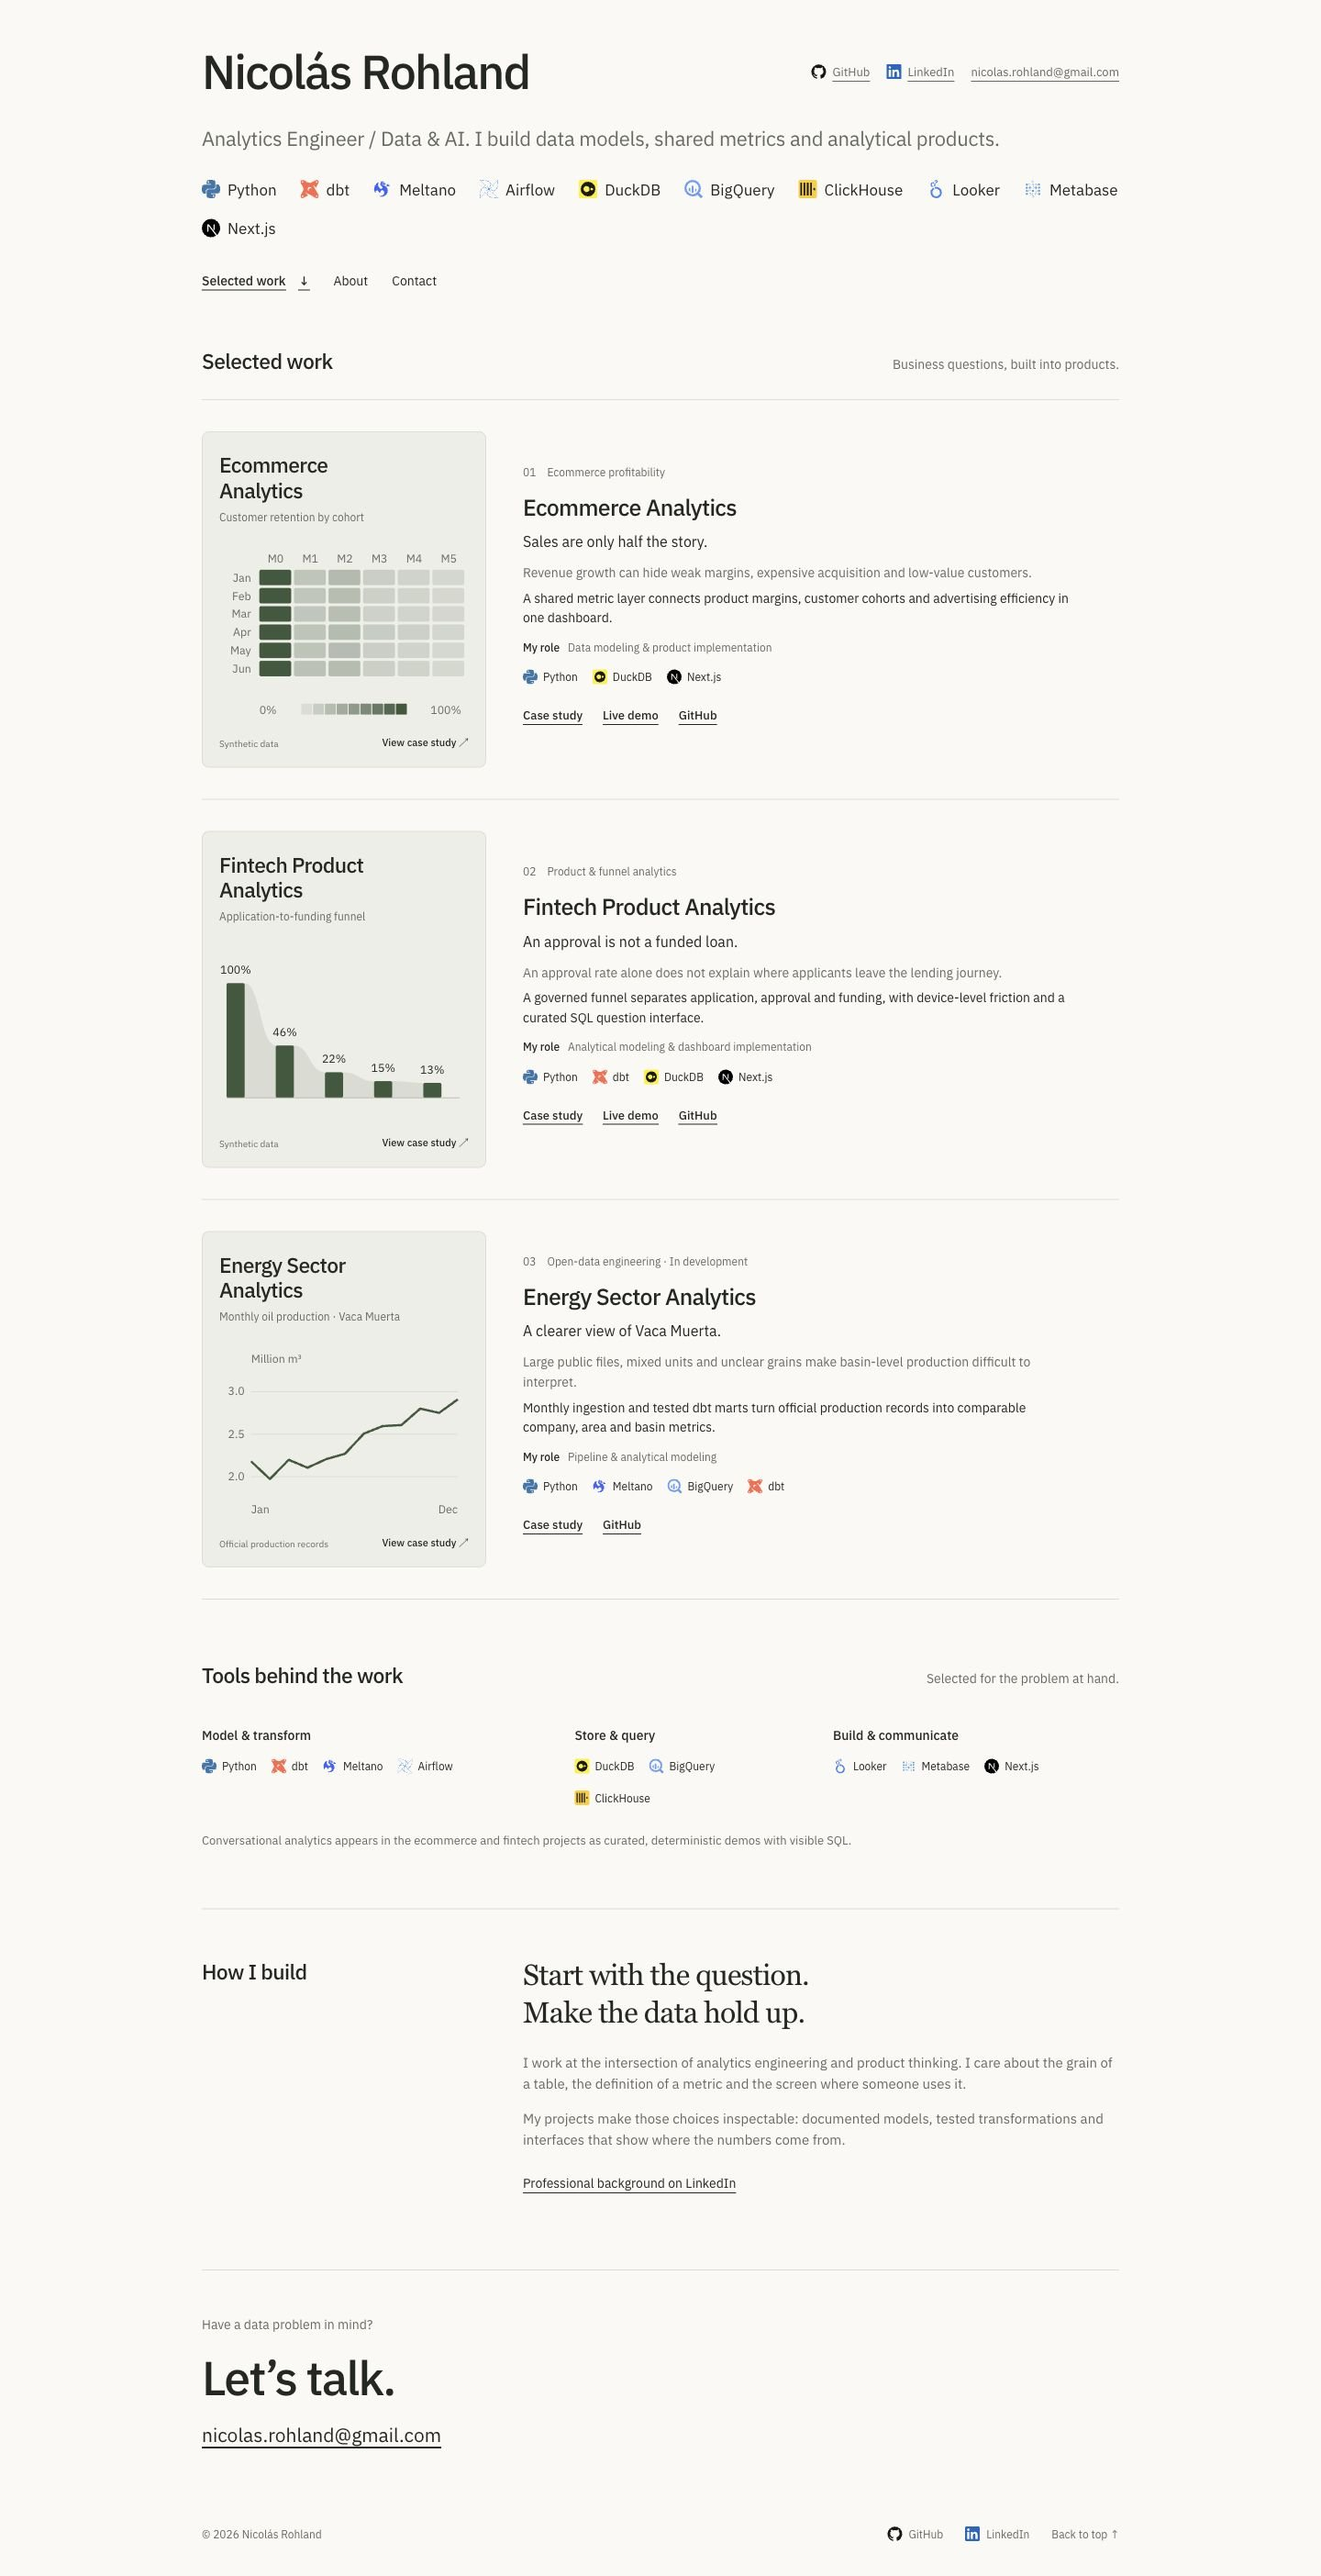
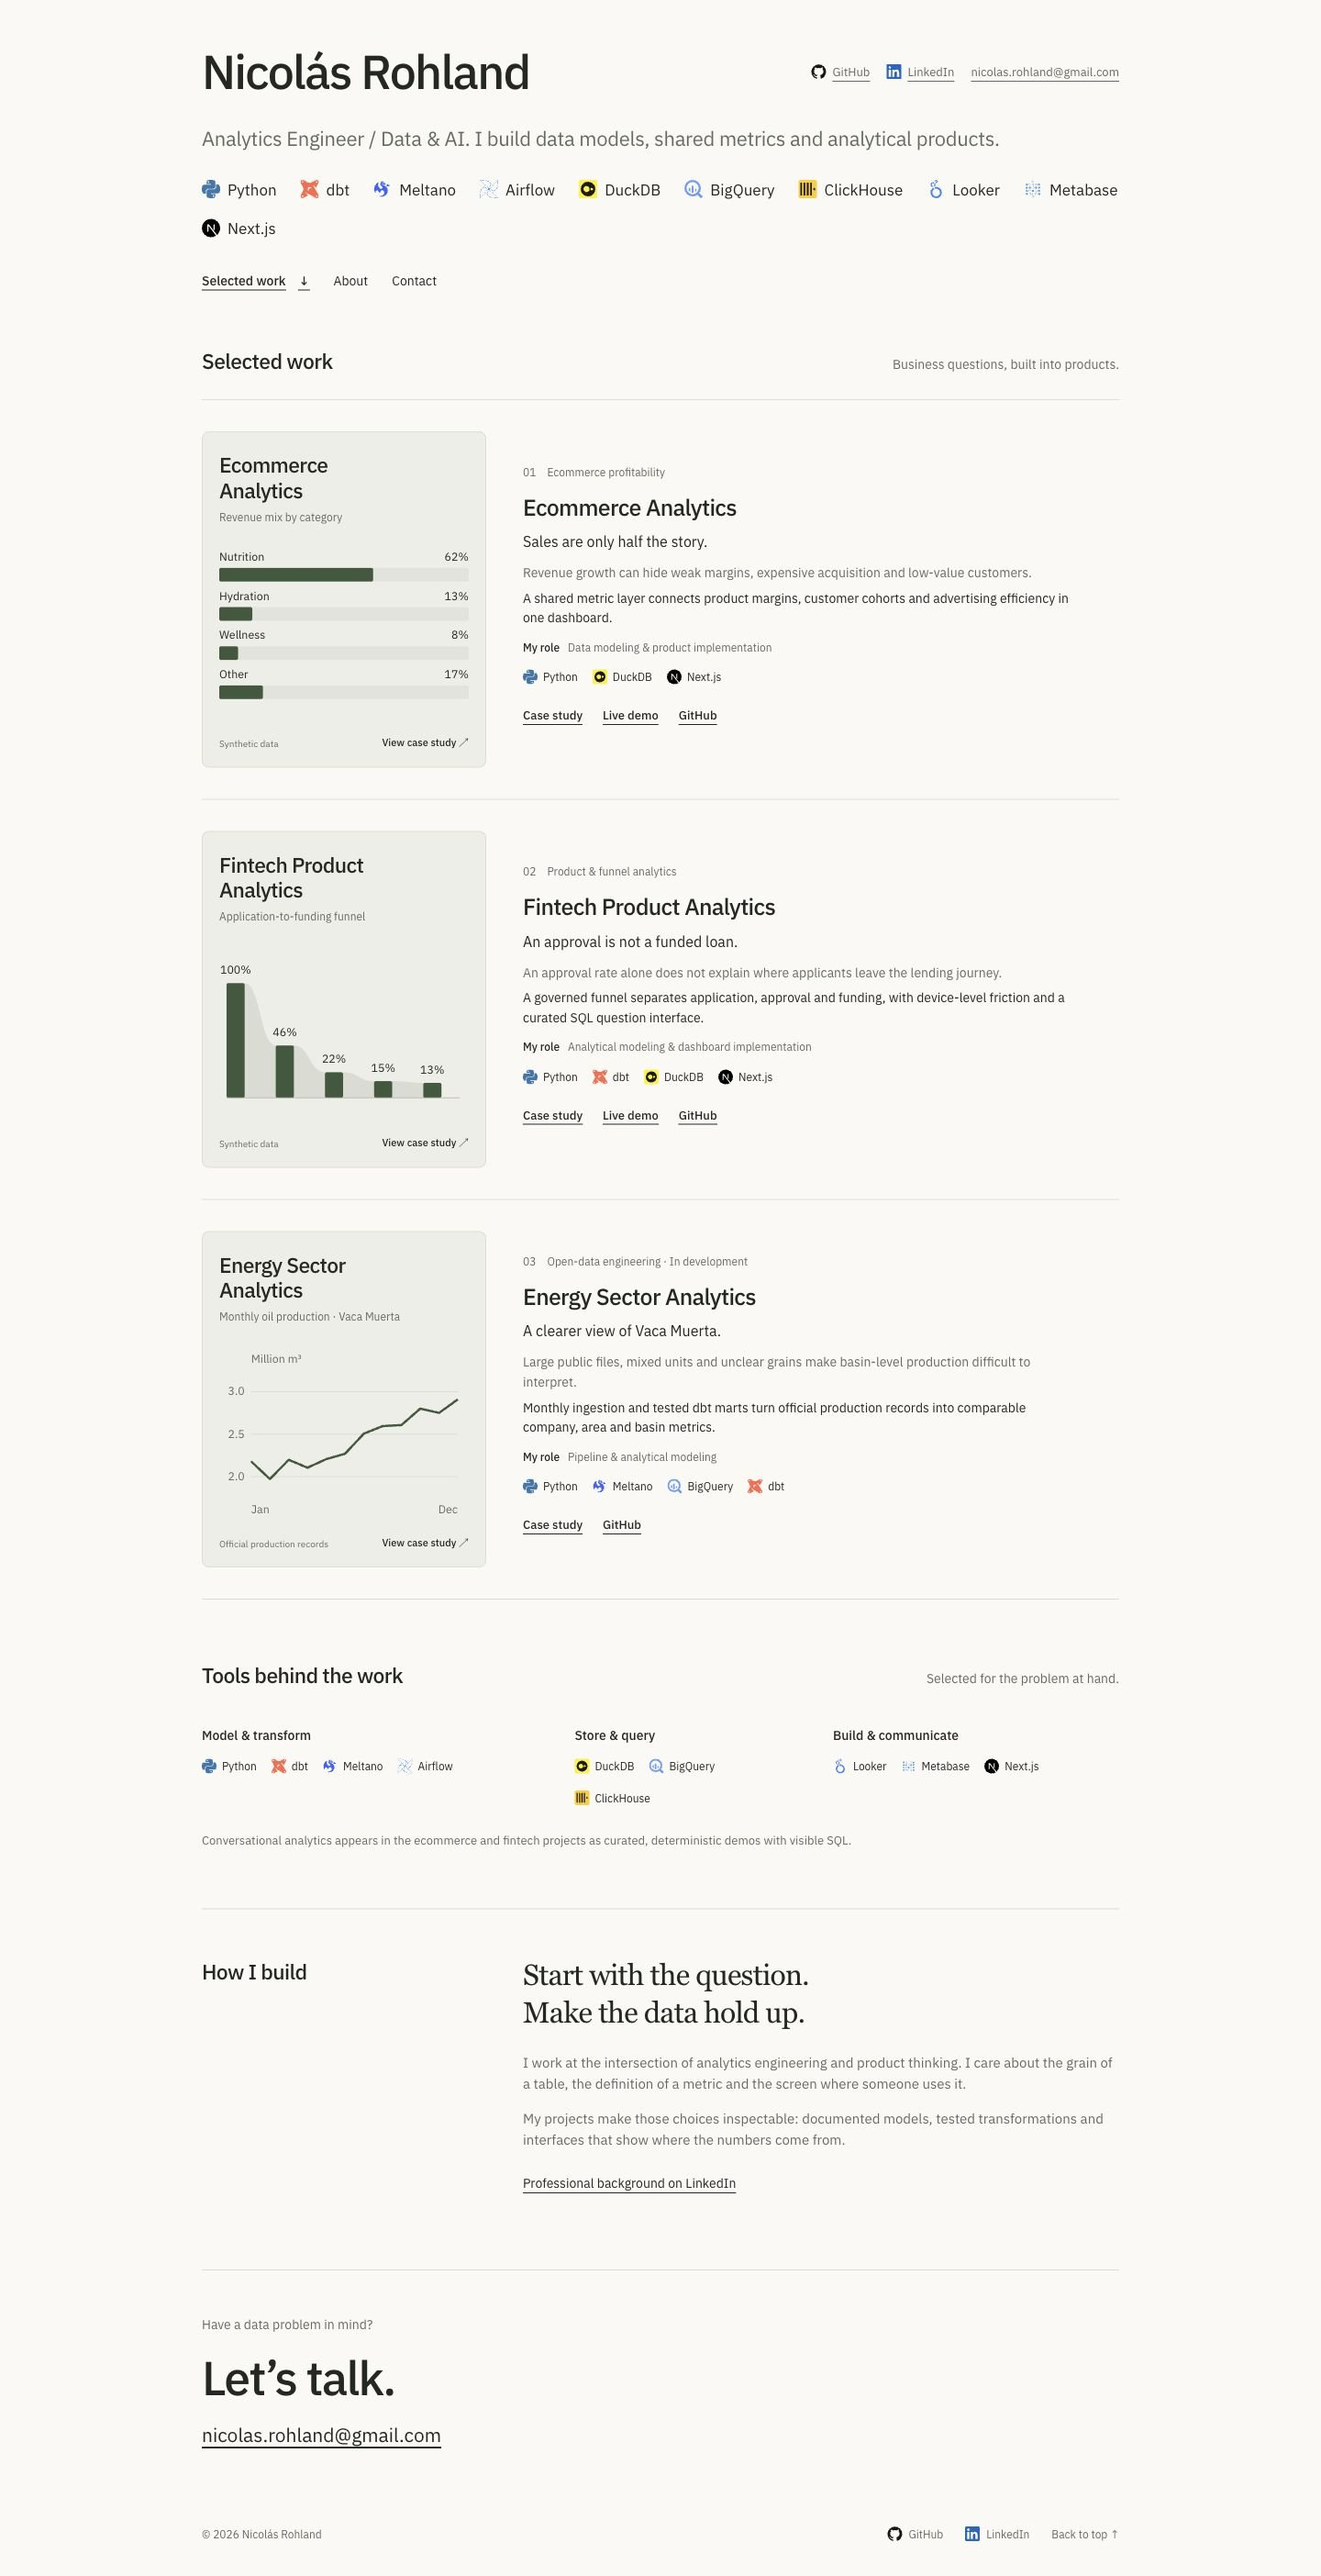
Use revenue composition in ecommerce project cover

Changed region(s): [[0.1562, 0.217, 0.3438, 0.2789]]

diff --git a/src/components/project-cover.tsx b/src/components/project-cover.tsx
@@ -1,5 +1,5 @@
 import type { Project } from "@/data/site";
-import { applicationStages, monthlyOil, retentionCohorts } from "@/data/cover-charts";
+import { applicationStages, monthlyOil, categoryRevenue } from "@/data/cover-charts";
 
 export function BasinChart() {
   const points = monthlyOil.map((value, index) => `${28 + index * 26},${135 - (value - 1900000) / 1000000 * 95}`).join(" ");
@@ -11,16 +11,25 @@ export function BasinChart() {
   </svg>;
 }
 
-function RetentionChart() {
-  return <svg className="cover-chart" viewBox="0 0 274 190" role="img" aria-label="Customer retention by cohort. January through June 2024 cohorts, months zero through five. All start at 100%; roughly 14–16% return in month five. From the project's synthetic dataset.">
-    {Array.from({length:6}, (_, index) => <text key={index} x={62 + index * 38} y="14" textAnchor="middle" className="secondary">M{index}</text>)}
-    {retentionCohorts.map((cohort, row) => <g key={row}>
-      <text x="35" y={35 + row * 20} textAnchor="end" className="secondary">{["Jan", "Feb", "Mar", "Apr", "May", "Jun"][row]}</text>
-      {cohort.map((value, column) => <rect key={column} x={44 + column * 38} y={22 + row * 20} width="35" height="17" rx="2" fill="currentColor" opacity={value}><title>{`${Math.round(value * 100)}% retained`}</title></rect>)}
-    </g>)}
-    <text x="44" y="180" className="secondary">0%</text>
-    {Array.from({length:10}, (_, index) => <rect key={index} x={77 + index * 13} y="169" width="12" height="12" rx="1" fill="currentColor" opacity={index / 9} />)}
-    <text x="266" y="180" textAnchor="end" className="secondary">100%</text>
+function RevenueMixChart() {
+  const total = categoryRevenue.reduce((sum, item) => sum + item.revenue, 0);
+  const shares = categoryRevenue.map(item => item.revenue / total * 100);
+  const percentages = shares.map(Math.floor);
+  // Largest-remainder rounding keeps the displayed composition at 100%.
+  shares.map((share, index) => ({index, remainder: share % 1}))
+    .sort((a, b) => b.remainder - a.remainder)
+    .slice(0, 100 - percentages.reduce((sum, value) => sum + value, 0))
+    .forEach(({index}) => { percentages[index] += 1; });
+  return <svg className="cover-chart" viewBox="0 0 274 190" role="img" aria-label="Share of product gross revenue by category: Nutrition approximately 62%, Hydration 13%, Wellness 8%, and other categories 17%. Other combines Vitamins, Energy and Accessories. From the project's synthetic dataset.">
+    {categoryRevenue.map(({category, revenue}, index) => {
+      const y = 10 + index * 43, share = revenue / total;
+      return <g key={category}>
+        <text x="0" y={y + 2}>{category}</text>
+        <text x="274" y={y + 2} textAnchor="end">{percentages[index]}%</text>
+        <rect x="0" y={y + 10} width="274" height="15" rx="2" fill="currentColor" opacity=".07" />
+        <rect x="0" y={y + 10} width={274 * share} height="15" rx="2" fill="currentColor" />
+      </g>;
+    })}
   </svg>;
 }
 
@@ -56,8 +65,8 @@ export function ProjectCover({ project }: { project: Project }) {
   const lines = energy ? ["Energy Sector", "Analytics"] : fintech ? ["Fintech Product", "Analytics"] : ["Ecommerce", "Analytics"];
   return <div className="project-cover">
     <span className="cover-title">{lines[0]}<br />{lines[1]}</span>
-    <p className="cover-subtitle">{energy ? "Monthly oil production · Vaca Muerta" : fintech ? "Application-to-funding funnel" : "Customer retention by cohort"}</p>
-    {energy ? <OilChart /> : fintech ? <FunnelChart /> : <RetentionChart />}
+    <p className="cover-subtitle">{energy ? "Monthly oil production · Vaca Muerta" : fintech ? "Application-to-funding funnel" : "Revenue mix by category"}</p>
+    {energy ? <OilChart /> : fintech ? <FunnelChart /> : <RevenueMixChart />}
     <div className="cover-footer"><p className="cover-caption">{energy ? "Official production records" : "Synthetic data"}</p><span className="cover-action">View case study <span aria-hidden="true">↗</span></span></div>
   </div>;
 }

diff --git a/src/data/cover-charts.ts b/src/data/cover-charts.ts
@@ -1,12 +1,10 @@
-// Ecommerce: public/data/dashboard.json, Jan–Jun 2024 cohorts, months 0–5.
-// Each value is retained_customers / cohort_size in the synthetic dataset.
-export const retentionCohorts = [
-  [1, .2710727969348659, .34434865900383144, .210727969348659, .1810344827586207, .1527777777777778],
-  [1, .26263580538497877, .3240434577231932, .2021728861596599, .17005196032120926, .14312706660368446],
-  [1, .2687007874015748, .3198818897637795, .19438976377952755, .17273622047244094, .14960629921259844],
-  [1, .2763234438627109, .3391506689936009, .22164048865619546, .19604421175101802, .16055846422338568],
-  [1, .2797347699958558, .32905097389142146, .21301284707832574, .17778698715292168, .14711976792374637],
-  [1, .29934065934065934, .3323076923076923, .2079120879120879, .18021978021978022, .1476923076923077],
+// Ecommerce: public/data/dashboard.json, products grouped by category.
+// Gross revenue in the synthetic dataset; Other combines Vitamins, Energy and Accessories.
+export const categoryRevenue = [
+  { category: "Nutrition", revenue: 4078653 },
+  { category: "Hydration", revenue: 875975 },
+  { category: "Wellness", revenue: 499202 },
+  { category: "Other", revenue: 466208 + 425488 + 266016 },
 ];
 
 // Fintech: web/src/data/dashboard.json, product_metrics, overall/all counts.

diff --git a/docs/verification.md b/docs/verification.md
@@ -97,3 +97,12 @@ Antislop delivery gate:
 - Purpose gate PASS: card radius/border identify a clickable preview; hover scale/elevation signal interaction, with reduced-motion support; arrow identifies new-tab navigation; green/IBM Plex Sans retain the owner-approved visual identity.
 - Liveliness PASS: ENERGY 1 / RHYTHM 2 / MOTION 1; shared cover structure is explicitly requested, while heatmap/funnel/line reflect three different analytical questions. The unchanged name-led hero and typography-led About preserve section rhythm.
 - Craftsmanship/quality PASS: titles and subtitle slots stay aligned; layout works at desktop/mobile; hover is restricted to precise pointers and never required for navigation; all chart values remain source-backed. A working build and browser click-through back the final state.
+
+
+## Revenue composition selection, 2026-10-02
+
+The owner selected revenue composition for Ecommerce. Horizontal bars show product gross revenue grouped by category from the synthetic dashboard export. Nutrition, Hydration and Wellness retain their categories; Other combines Vitamins, Energy and Accessories. Bar widths use exact shares of the product-export total; largest-remainder rounding gives labels 62%, 13%, 8% and 17%, summing to 100%. Fintech and Energy are unchanged.
+
+Fresh lint, typecheck, production Webpack build and diff check pass. Final desktop 1440px and mobile 390px screenshots reviewed; mobile document width equals viewport width and no browser warnings/errors were logged. Source-backed accessible chart description and existing new-tab case-study action remain present.
+
+Antislop delivery gate: hard gate PASS (source-backed shares and synthetic disclosure); purpose PASS (horizontal category comparison differs from fintech stage columns); liveliness PASS (approved common typography/palette with distinct chart forms); craftsmanship PASS (aligned slots, responsive SVG and readable labels). Earlier hosted Lighthouse/canonical-domain release limitations remain.

diff --git a/docs/assets.md b/docs/assets.md
@@ -1,7 +1,7 @@
 # Asset sources
 
 - Project covers: shared typography and palette with inline SVG charts approved by the owner. No generated illustrations are displayed.
-- Ecommerce cover: customer-retention heatmap from `ecommerce-profitability-analytics/public/data/dashboard.json`, `cohorts`, January–June 2024 and months 0–5. Cell opacity uses `retention_rate` directly on a 0–100% scale. Synthetic data, not measured business impact.
+- Ecommerce cover: horizontal revenue-share bars from `ecommerce-profitability-analytics/public/data/dashboard.json`, `products`, gross revenue grouped by category. Nutrition 4,078,653; Hydration 875,975; Wellness 499,202; Other combines Vitamins (466,208), Energy (425,488) and Accessories (266,016). Bar lengths use exact shares of this product-export total; largest-remainder rounding makes labels total 100% (62%, 13%, 8%, 17%). Synthetic data, not measured business impact.
 - Fintech cover: overall application counts from `lendflow-fintech-analytics/web/src/data/dashboard.json`: 100,000 started → 45,692 submitted → 22,351 approved → 14,587 contracted → 13,065 funded. Column heights use these counts; percentages all use started applications as denominator. Curved bridges connect stages visually. Synthetic data.
 - Energy cover and case page: official `apps/spike/data/monthly_pulse.csv` at Vaca Muerta repository commit `1c1c30eb9e29901048cbd812eb14f46c109e4439`. The available extract covers Jan–Dec 2025 only. The cover omits the year from its title; accessible descriptions and case limitations state the extract's scope. No live feed, extrapolation or 2026 coverage is claimed.
 - Ecommerce and fintech case pages: real captures of public live demos taken 2026-10-01, separate from the new covers.
